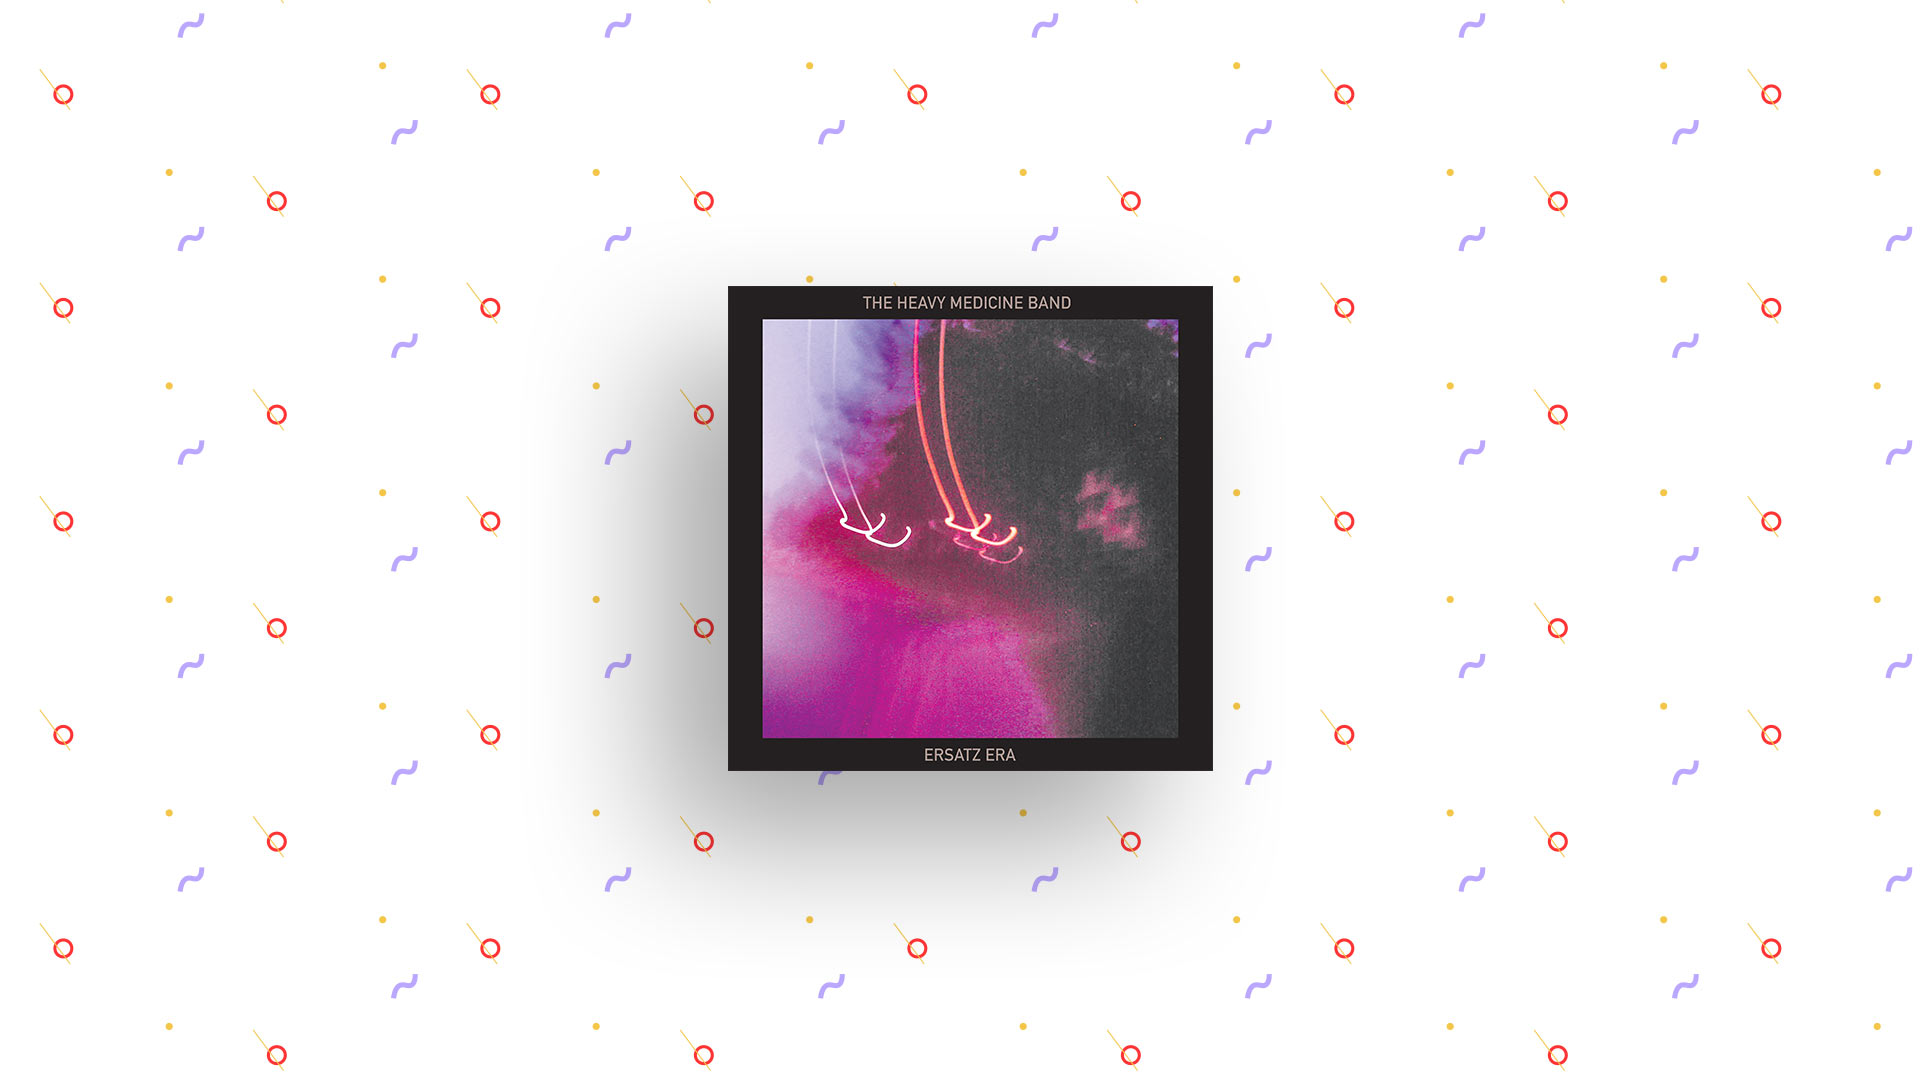
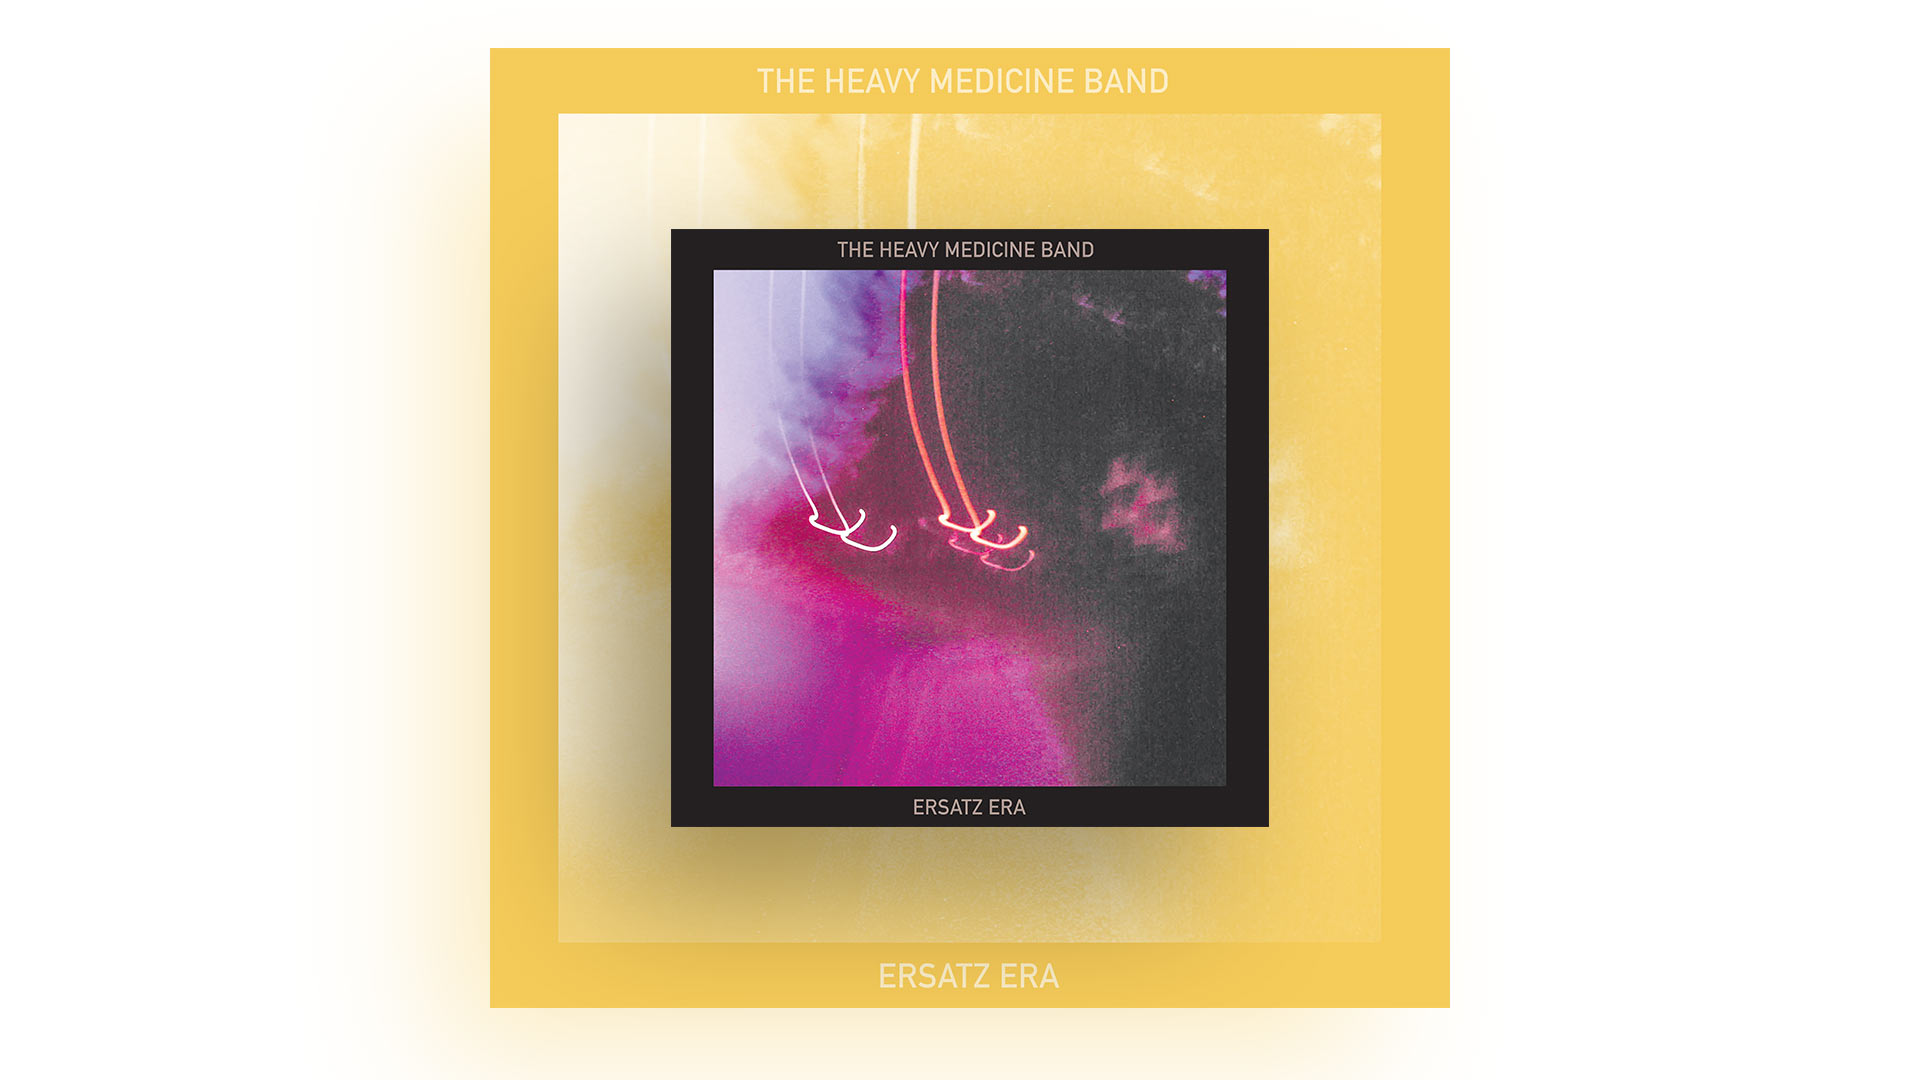
changed photo treatment

diff --git a/the-heavy-medicine-band.html b/the-heavy-medicine-band.html
@@ -3,12 +3,13 @@ layout: piece-page
 title: Chris Di Lauro • The Heavy Medicine Band
 ---
 
-    <div class="piece-bg">
+    <div class="hmb-bg">
     </div>
 
     <div class="grid img-contain">
-      <div class="unit p-hold-1">
-        <img class="img-flex" src="{{site.baseurl}}/images/hmb-banner.jpg" alt="">
+      <div class="banner unit p-hold-1">
+        <img class="banner-large img-flex" src="{{site.baseurl}}/images/hmb-banner.jpg" alt="">
+        <img class="banner-small img-flex" src="{{site.baseurl}}/images/hmb-banner-small.jpg" alt="">
       </div>
     </div>
   </div>

diff --git a/css/main.css b/css/main.css
@@ -152,14 +152,19 @@ nav a:hover {
   height: 100%;
 }
 
-.piece-bg {
-  background-color: #bba7ff;
-  height: 25%;
+.hmb-bg {
+  background-image: url("../images/hmb-banner-small");
+  background-size: cover;
+  background-position: center;
+  max-height: 25%;
 }
 
 .img-contain {
   height: 100%;
+}
 
+.banner-large {
+  display: none;
 }
 
 @media only screen and (min-width: 25em) {
